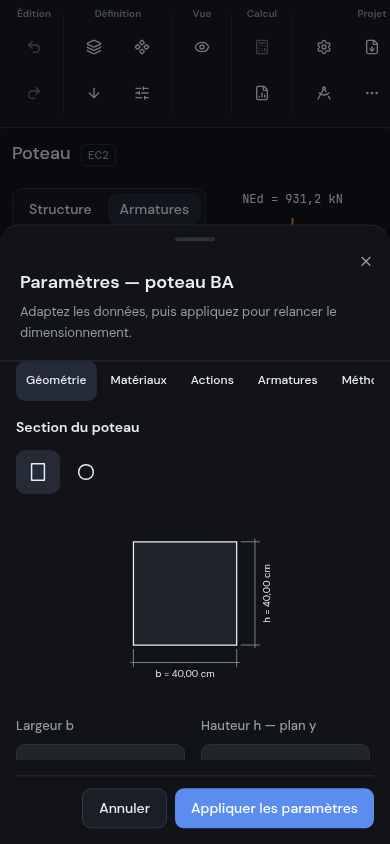
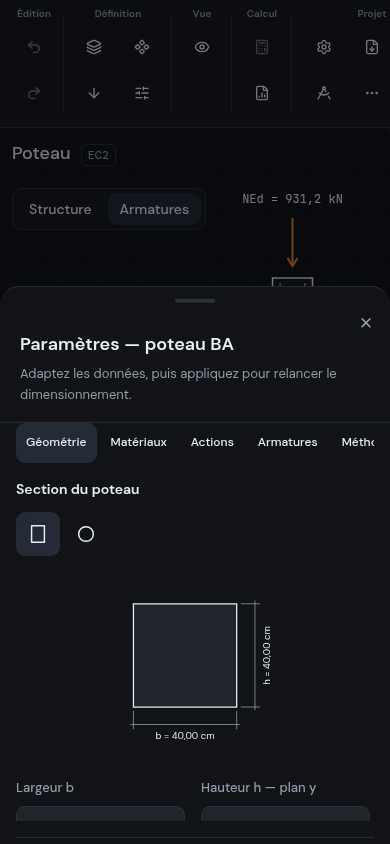
Fit reinforcement sections and legends to short desktop windows

diff --git a/src/components/rc/scene.tsx b/src/components/rc/scene.tsx
@@ -182,18 +182,18 @@ export function ReinforcedSection({
           textAnchor="middle"
         >
           <path
-            d={`M${left},${top + H + 8 * scale}v${18 * scale}m${w},${-18 * scale}v${18 * scale}M${left},${top + H + 22 * scale}h${w}`}
+            d={`M${left},${top + H + 8 * labelScale}v${18 * labelScale}m${w},${-18 * labelScale}v${18 * labelScale}M${left},${top + H + 22 * labelScale}h${w}`}
             fill="none"
             stroke="var(--muted-foreground)"
           />
-          <text x={x} y={top + H + 42 * scale}>
+          <text x={x} y={top + H + 42 * labelScale}>
             {circ ? "Ø " : table ? "beff = " : "b = "}
             {fmt(bf / 10, 0)} cm
           </text>
           <text
-            x={left + w + 28 * scale}
+            x={left + w + 28 * labelScale}
             y={y}
-            transform={`rotate(-90 ${left + w + 28 * scale} ${y})`}
+            transform={`rotate(-90 ${left + w + 28 * labelScale} ${y})`}
           >
             {circ ? "" : "h = " + fmt(h / 10, 0) + " cm"}
           </text>
@@ -274,7 +274,7 @@ export function RCScene({
           x={mid}
           y={cy}
           scale={compact ? u * 0.65 : 1}
-          labelScale={compact ? u : 1}
+          labelScale={u}
           labels={annotations}
         />
         <g
@@ -441,6 +441,10 @@ export function RCScene({
       ),
     );
   const amp = (compact ? 110 * u : Math.min(100, H * 0.2)) / max;
+  const detailScale = Math.max(
+    0.2 * u,
+    Math.min(0.85, (H - y - 217 * u) / 230),
+  );
   const selected = selection?.startsWith("support:")
     ? r?.supports?.[Number(selection.split(":")[1])]
     : r?.spans?.[Number(selection?.split(":")[1] ?? 0)];
@@ -767,9 +771,9 @@ export function RCScene({
           result={r}
           design={selected ?? r?.spans?.[0]}
           x={500}
-          y={compact ? y + 185 * u : Math.min(H - 205, y + 210)}
-          scale={compact ? u * 0.55 : 0.85}
-          labelScale={compact ? u : 1}
+          y={compact ? y + 185 * u : y + 112 * u + 115 * detailScale}
+          scale={compact ? u * 0.55 : detailScale}
+          labelScale={u}
           labels={annotations}
         />
       )}

diff --git a/e2e/rc-presentation.spec.ts b/e2e/rc-presentation.spec.ts
@@ -138,3 +138,43 @@ test("continuous beams show both envelopes, cutoff curves and actual spacing, an
     ),
   ).toBe(true);
 });
+
+test("beam reinforcement legends remain separate in a short desktop window", async ({
+  page,
+}, info) => {
+  test.skip(info.project.name === "mobile", "Desktop height regression");
+  test.setTimeout(120000);
+  await page.setViewportSize({ width: 1028, height: 749 });
+  await open(page, "beam-size");
+  await parameters(page);
+  const form = page.getByRole("dialog");
+  await form.getByRole("button", { name: "Méthode", exact: true }).click();
+  await form
+    .getByRole("combobox", {
+      name: "Liaison de la poutre aux appuis",
+      exact: true,
+    })
+    .click();
+  await page.getByRole("option", { name: "Poutre posée", exact: true }).click();
+  await form
+    .getByRole("button", { name: "Appliquer les paramètres", exact: true })
+    .click();
+  await calculate(page);
+  const upper = await page
+    .locator(".rc-section-drawing text")
+    .filter({ hasText: /haut/ })
+    .boundingBox();
+  const span = await page
+    .locator('[data-element="span:0"] text')
+    .filter({ hasText: /Travée 1/ })
+    .boundingBox();
+  const bottom = await page
+    .locator(".rc-section-drawing text")
+    .filter({ hasText: /cnom/ })
+    .boundingBox();
+  const canvas = await page.getByTestId("playground").boundingBox();
+  expect(upper!.y).toBeGreaterThan(span!.y + span!.height + 4);
+  expect(bottom!.y + bottom!.height).toBeLessThan(
+    canvas!.y + canvas!.height - 8,
+  );
+});

diff --git a/docs/ec2-results-and-plans.md b/docs/ec2-results-and-plans.md
@@ -4,7 +4,7 @@ Les projets Poteau BA et Poutre BA répartissent désormais leurs résultats en 
 
 ## Lecture du ferraillage
 
-Les barres longitudinales et les cadres utilisent des traits fins. Le profil distingue les repères de la nappe supérieure, au-dessus, de ceux de la nappe inférieure, en dessous. Dans une coupe sur appui, les nappes restent à leur position physique, y compris lorsque la traction est en face supérieure.
+Les barres longitudinales et les cadres utilisent des traits fins. Sur les fenêtres de faible hauteur, la coupe adapte sa taille pour garder les repères lisibles et séparés du profil. Le profil distingue les repères de la nappe supérieure, au-dessus, de ceux de la nappe inférieure, en dessous. Dans une coupe sur appui, les nappes restent à leur position physique, y compris lorsque la traction est en face supérieure.
 
 Le survol d’un intervalle entre deux cadres affiche son pas réel, calculé par différence entre leurs positions, et le diamètre du cadre. Sur téléphone, toucher cet intervalle affiche la même information ; le zoom reste disponible pour les zones denses. Les positions de recouvrement calculées par le skill Poteau sont conservées, avec les positions courantes et nodales.
 
